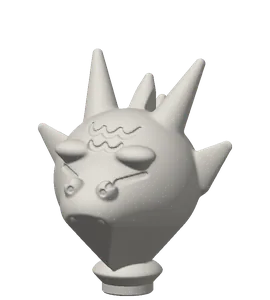
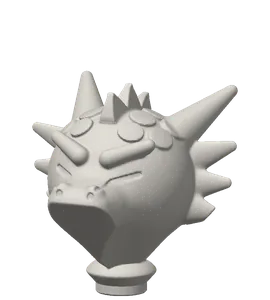
feat: troll added; dragon and orc reworked; head shape rule (D-033)
35 heads.

Changed region(s): [[0.1185, 0.15, 0.8889, 0.99], [0.1185, 0.39, 0.1481, 0.45]]

diff --git a/index.html b/index.html
@@ -4,7 +4,7 @@
 <meta charset="utf-8">
 <meta name="viewport" content="width=device-width, initial-scale=1">
 <title>Quiet Company | desk buddies that listen</title>
-<meta name="description" content="Desk buddies that listen. One calm monk, three poses, thirty-four oversized heads that swap. Original 3D-printed figures, printed to order.">
+<meta name="description" content="Desk buddies that listen. One calm monk, three poses, thirty-five oversized heads that swap. Original 3D-printed figures, printed to order.">
 <meta name="theme-color" content="#ffffff">
 <link rel="icon" href="assets/favicon.svg" type="image/svg+xml">
 <link rel="preconnect" href="https://fonts.googleapis.com">
@@ -40,7 +40,7 @@
   <section class="hero">
     <p class="eyebrow">Quiet Company</p>
     <h1>Good listeners.</h1>
-    <p class="lede">Tell your buddy the problem out loud. You will often have the answer before you finish explaining. One calm monk, three poses, thirty-four oversized heads that lift off and swap.</p>
+    <p class="lede">Tell your buddy the problem out loud. You will often have the answer before you finish explaining. One calm monk, three poses, thirty-five oversized heads that lift off and swap.</p>
     <div class="rule" aria-hidden="true"></div>
     <p><a class="button" href="quiz.html">Find your buddy</a></p>
     <p class="availability">Seven questions, about a minute. Shop opening soon. <a href="credits.html#contact">Questions</a>.</p>
@@ -56,7 +56,7 @@
 
   <section id="heads" class="section">
     <div class="section-head">
-      <h2>Thirty-four heads</h2>
+      <h2>Thirty-five heads</h2>
       <p>All original, all a size too big for the body. Pick one, or let the quiz pick.</p>
     </div>
     <div class="tiles" id="js-gallery"></div>

diff --git a/credits.html b/credits.html
@@ -39,7 +39,7 @@
 
   <h2 id="models">Models</h2>
   <p>Original 3D models are licensed under <a href="https://creativecommons.org/licenses/by-nc/4.0/">CC BY-NC 4.0</a>. Print, remix, and share for yourself, with credit. No commercial selling.</p>
-  <p>The line-up is one monk body in three poses and 34 heads, all original and all by Quiet Company. They were generated from code with AI assistance; no scan, third-party model or existing character was used. The full scope is in the repository's <a href="LICENSE">LICENSE</a> file.</p>
+  <p>The line-up is one monk body in three poses and 35 heads, all original and all by Quiet Company. They were generated from code with AI assistance; no scan, third-party model or existing character was used. The full scope is in the repository's <a href="LICENSE">LICENSE</a> file.</p>
 
   <h2>Cards, brand, photography</h2>
   <p>All rights reserved. The insight cards, the quiz and its wording, card art, brand, renders and photographs are not covered by the model licence.</p>

diff --git a/assets/buddies.js b/assets/buddies.js
@@ -86,7 +86,9 @@
     elf:       { name: "The Elf",       t: [-2, 0, 1, -2],   tag: "For the one who makes the thing and lets someone else hand it over.",
                  practice: "Sign your work today." },
     orc:       { name: "The Orc",       t: [-1, 0, -2, 2],   tag: "For the one who looks cross and is only thinking.",
-                 practice: "Tell one person what the face means." }
+                 practice: "Tell one person what the face means." },
+    troll:     { name: "The Troll",     t: [-2, -1, 1, 1],   tag: "For the one who is happy under the bridge, thanks.",
+                 practice: "Let one person cross today without the riddle." }
   };
 
   // Each answer nudges the traits: [energy, company, heart, wildness].

diff --git a/assets/site.js b/assets/site.js
@@ -5,7 +5,7 @@
   "use strict";
   var S = window.QUIET_COMPANY;
   // Seated height in mm for the heads that stand well above the rest; standing and walking add 25.
-  var TALL_MM = { cyclops: 122, husky: 123, lion: 123, robot: 123, dragon: 125, ghost: 125, minotaur: 126, orc: 126,
+  var TALL_MM = { cyclops: 122, troll: 122, husky: 123, lion: 123, robot: 123, dragon: 125, ghost: 125, minotaur: 126,
                   alien: 128, jester: 131, unicorn: 137, bunny: 140, elf: 140, wizard: 140, giraffe: 148 };
   var HEAD_IDS = Object.keys(S.HEADS), BODY_IDS = Object.keys(S.BODIES);
 

diff --git a/README.md b/README.md
@@ -2,7 +2,7 @@
 
 Original 3D-printable figurines and the brand kit behind them. The idea: small, wry sculptures that borrow the calm of Buddhist iconography without borrowing anyone's copyrighted characters.
 
-v1 is one calm monk in three poses (sitting, standing, walking) and 34 original heads that lift off and swap: archetypes like the robot and the wizard, and animals like the frog and the owl. A short quiz picks one for you.
+v1 is one calm monk in three poses (sitting, standing, walking) and 35 original heads that lift off and swap: archetypes like the robot and the wizard, and animals like the frog and the owl. A short quiz picks one for you.
 
 This repository is the public half of the project. The business repo is private.
 
